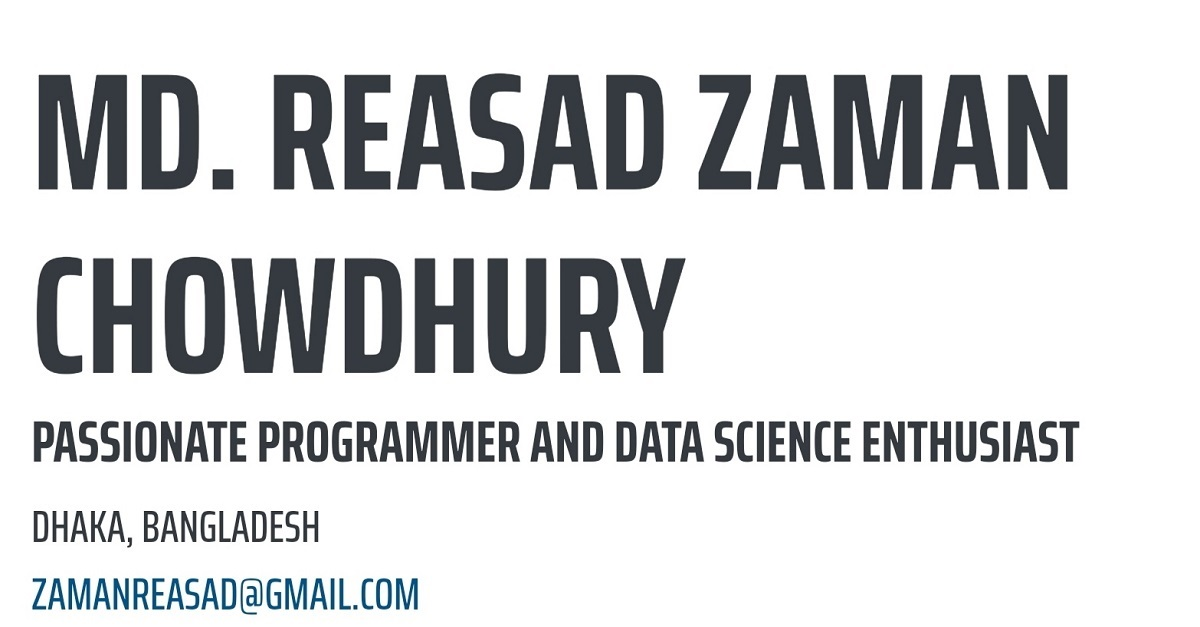
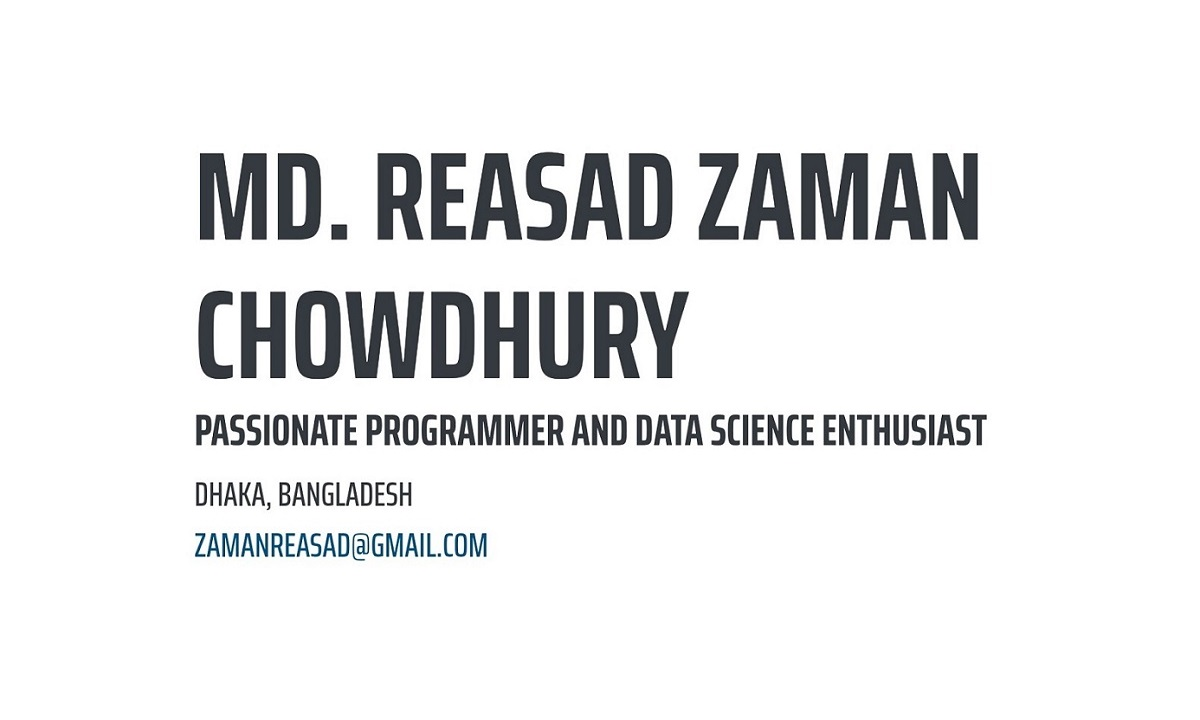
Fix: uppercase problem in email
Modify: Minor modification on description

diff --git a/index.html b/index.html
@@ -124,8 +124,8 @@
             My name is Md. Reasad Zaman Chowdhury. I graduated with B.Sc in Computer
             Science and Engineering from Ahsanullah University of Science and 
             Technology, Bangladesh. I am enthusiastic about building software
-             and solving real-world problems with efficient code. I am also
-              interested in doing research in the fields of data science, 
+             and solving real-world problems with my software development skills. I am 
+             also interested in doing research in the fields of data science, 
               machine learning and artificial intelligence.  
           </p>
           <a href="/resources/cv_reasad.pdf" target="_blank">View Full CV</a>

diff --git a/css/style.css b/css/style.css
@@ -39,6 +39,10 @@ h2 {
   font-size: 1.35rem;
 }
 
+.subheading a{
+  text-transform: lowercase;
+}
+
 .list-social-icons a {
   color: #2a2e31;
 }
